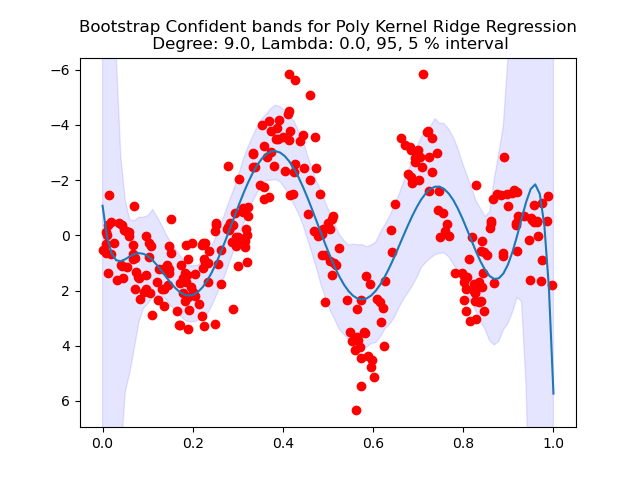
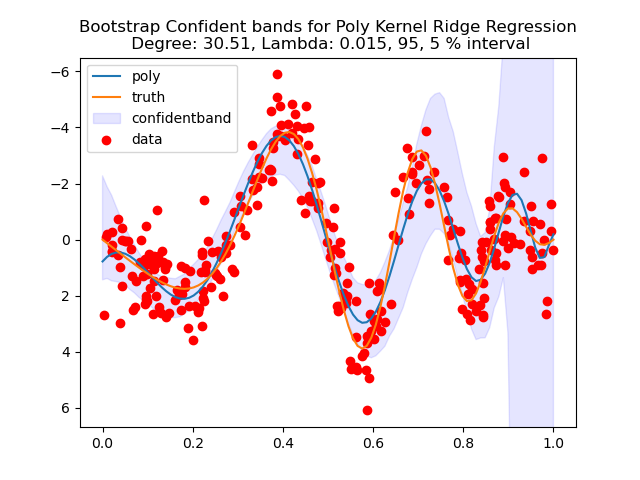
omg finally A3 i think I am done

diff --git a/HW3/hw3code/A3.py b/HW3/hw3code/A3.py
@@ -16,6 +16,7 @@ max = np.max
 linspace = np.linspace
 logspace = np.logspace
 percentile = np.percentile
+var = np.var
 from kernel_ridge_regression import KernelRidge
 from sklearn.metrics.pairwise import rbf_kernel, polynomial_kernel
 from sklearn.model_selection import KFold
@@ -54,12 +55,12 @@ def CrossValErrorEstimate(X, y, regualarizer, kernelfunc, split=None,param_norm=
     AlphaNorm = []
     if split is None:
         split = X.shape[0]
-    kf = KFold(n_splits=split, shuffle=False)
+    kf = KFold(n_splits=split, shuffle=False) # Make it deterministic given the same training sample.
 
     for TrainIdx, TestIdx in kf.split(X):
         Model = KernelRidge(regularizer_lambda=regualarizer, kernelfunc=kernelfunc)
         Model.fit(X[TrainIdx], y[TrainIdx])
-        yhat = Model.predict(X[TestIdx])
+        yhat = Model.predict(X[TestIdx]).reshape(-1)
         Error = (sum(yhat - y[TestIdx])**2)/len(TestIdx)
         Errors.append(Error)
         AlphaNorm.append(norm(Model.w, np.inf))
@@ -71,14 +72,14 @@ def CrossValErrorEstimate(X, y, regualarizer, kernelfunc, split=None,param_norm=
 def GenerateXY(n):
     f = lambda x: 4 * sin(pi * x) * cos(6 * pi * x ** 2)
     x = rand(n)
+    x.sort()
     y = f(x) + randn(n)
     return x[:, np.newaxis], y
 
 
 def main(n=30, KfoldSplit=30):
-
     X, y = GenerateXY(n)   #  THIS IS SHARED! FOR ALL
-
+    f = lambda x: 4 * sin(pi * x) * cos(6 * pi * x ** 2)
     def PolyKernelHypertune():
         def GetError(deg, l):
             Kernefun = lambda x, y: MyPolyKernel(x, y, deg)
@@ -88,15 +89,40 @@ def main(n=30, KfoldSplit=30):
                                           kernelfunc=Kernefun,
                                           split=KfoldSplit)
             return Error
-        Result = shgo(lambda x: GetError(x[0], x[1]),
-             bounds=[(1, 10), (0, 2*n)],
-             n=300, sampling_method="sobol")
-        print(f"SHGO Optimization Results: {Result}")
-        return Result.x
+        BestError = float("inf")
+        Best = None
+        for Deg in np.linspace(7, 31):
+            Result = shgo(lambda x: GetError(Deg, x),
+                bounds=[(0, 0.05)],
+                n=100,
+                sampling_method="simplicial",
+                options={"f_tol": 1e-8}
+                          )
+            if Result.fun < BestError:
+                print(f"Poly Kernel Best error update for deg: {Deg}, Lambda: {Result.x}, Error: {Result.fun}")
+                BestError = Result.fun
+                Best = (Deg, Result.x[0])
+            else:
+                print(f"failed at: deg: {Deg}, Lambda: {Result.x[0]}, Error: {Result.fun}")
+
+        # Result = shgo(lambda x: GetError(x, 0),
+        #      bounds=[(1, 100)],
+        #      n=200, sampling_method="simplicial",
+        #               options={"f_tol": 1e-8, "disp": True})
+        # print(f"SHGO Optimization Results: {Result}")
+        return Best
 
     def GaussianKernelHypertune():
         # Grid search, Fix the training sample
         # X, y = GenerateXY()
+        Xs = X.reshape(-1)
+        Distance = []
+        for II in range(Xs.size):
+            for JJ in range(II + 1, Xs.size):
+                Distance.append(1/(norm(Xs[II] - Xs[JJ])**2))
+        GammaLower, GammaHigher = \
+            percentile(Distance, 25), percentile(Distance, 75)
+        print(f"Hypertune Gamma kernel search range: {GammaLower, GammaHigher}")
         def GetError(gamma, l):
             l, gamma = abs(l), abs(gamma)
             Kernelfun = lambda x, y: RBFKernel(x,y, gamma=gamma)
@@ -109,15 +135,16 @@ def main(n=30, KfoldSplit=30):
             return Error
         # GRID SEARCH INITIAL GUESS
         Result = shgo(lambda x: GetError(x[0], x[1]),
-                      bounds=[(0, 1000), (0, 10*n)],
-                      n=300, sampling_method='sobol')
+                      bounds=[(GammaLower, GammaHigher), (0, 1)],
+                      n=100, sampling_method='sobol',
+                      options={"f_tol": 1e-4, "disp": True})
         print("Optimization results: ")
         print(Result)
         print(f"Guassian Bestparams: {Result.x}")
         return Result.x
     # ============ Hyper Param! ================================================
-    # GaussianBest = [20, 0.058]
-    # PolyBest = [19, 0.05] # PolyKernelHypertune()
+    GaussianBest = [20, 0.058]
+    PolyBest = [19, 0.05]
 
     GaussianBest = GaussianKernelHypertune()
     PolyBest = PolyKernelHypertune()
@@ -131,14 +158,17 @@ def main(n=30, KfoldSplit=30):
                             kernelfunc=
                             lambda X, Y: MyPolyKernel(X, Y, PolyBest[0]))
         Model.fit(X, y)
+        plt.ylim([max(y)*1.1, min(y)*1.1])
         plt.plot(x, Model.predict(x[:, np.newaxis]).reshape(-1))
+        plt.plot(x, f(x))
         plt.scatter(X.reshape(-1), y, c="red")
         plt.title(f"poly kernel ridge regression\n "
                   f"degree: {PolyBest[0]}, lambda: {PolyBest[1]}")
         plt.xlabel("x")
         plt.ylabel("y")
-        plt.show()
+        plt.legend(["Poly", "Truth", "Data Points"])
         plt.savefig("A3b-poly.png")
+        plt.show()
         return Model
 
     BestPolyModel = DrawPolyModel()
@@ -150,15 +180,19 @@ def main(n=30, KfoldSplit=30):
                             lambda X, Y: RBFKernel(X, Y, GaussianBest[0])
                             )
         Model.fit(X, y)
+        plt.ylim([min(y)*1.1, max(y)*1.1])
         plt.plot(x, Model.predict(x[:, np.newaxis]).reshape(-1))
+        plt.plot(x, f(x))
         plt.scatter(X.reshape(-1), y, c="red")
         plt.title(f"guassian kernel ridge regression\n "
                   f"gamma: {GaussianBest[0]}, lambda: {GaussianBest[1]}")
         plt.xlabel("x")
         plt.ylabel("y")
-        plt.show()
+        plt.legend(["Gaussian", "Truth", "Data Points"])
         plt.savefig("A3b-gauss.png")
+        plt.show()
         return Model
+
     BestGaussianModel = DrawGuassianModel()
 
     # --------------------------------------------------------------------------
@@ -181,21 +215,33 @@ def main(n=30, KfoldSplit=30):
             BagOfModels.append(Model)
         ModelPredictions = np.array(
             [Model.predict(x[:, np.newaxis]).reshape(-1) for Model in BagOfModels])
+
         for II in range(ModelPredictions.shape[1]):
             UpperPercentile.append(percentile(ModelPredictions[:, II], 95))
             LowerPercentile.append(percentile(ModelPredictions[:, II], 5))
 
         return UpperPercentile, LowerPercentile
 
-
     def BoopStrapModelDifference(GaussModel, PolyModel):
         m = 1000
+        X, y = GenerateXY(m)
+        AllMeanDiff = []
+        print("solving A3(e)")
         for _ in range(300):
-            Indicies = randint(0, m, m)
+            Idx = randint(0, m, m)
+            Idx.sort()
+            Idx = np.unique(Idx)
+            Xtild, ytild = X[Idx], y[Idx]
+            yhat1 = GaussModel.predict(Xtild).reshape(-1)
+            yhat2 = PolyModel.predict(Xtild).reshape(-1)
+            Var1 = var(yhat1 - ytild)
+            Var2 = var(yhat2 - ytild)
+            AllMeanDiff.append(Var2 - Var1)
+            print(f"Bootstrap sample: {_}, The difference of MSE is: {AllMeanDiff[-1]}")
+        UpperPercentile, LowerPercentile =\
+            percentile(AllMeanDiff, 95), percentile(AllMeanDiff, 5)
+        return LowerPercentile, UpperPercentile
 
-            pass
-
-        pass
 
     Xgrid = linspace(0, 1, 100)
     UpperPercentile, LowerPercentile = BoopStraping(
@@ -208,9 +254,11 @@ def main(n=30, KfoldSplit=30):
     # plt.plot(Xgrid, UpperPercentile)
     # plt.plot(Xgrid, LowerPercentile)
     plt.ylim([max(y) * 1.1, min(y) * 1.1])
-    plt.fill_between(Xgrid, UpperPercentile, LowerPercentile, color='b', alpha=.1)
     plt.plot(Xgrid, BestPolyModel.predict(Xgrid[:, np.newaxis]))
+    plt.plot(Xgrid, f(Xgrid))
+    plt.fill_between(Xgrid, UpperPercentile, LowerPercentile, color='b', alpha=.1)
     plt.scatter(X.reshape(-1), y, c="red")
+    plt.legend(["poly", "truth", "confidentband", "data"])
     plt.savefig("Poly-boopstraped.png")
     plt.show()
     ## Plot the Gaussian Boopstrap
@@ -223,20 +271,31 @@ def main(n=30, KfoldSplit=30):
     # plt.plot(Xgrid, UpperPercentile)
     # plt.plot(Xgrid, LowerPercentile)
     plt.ylim([max(y) * 1.1, min(y) * 1.1])
-    plt.fill_between(Xgrid, UpperPercentile, LowerPercentile, color='b', alpha=.1)
     plt.plot(Xgrid, BestGaussianModel.predict(Xgrid[:, np.newaxis]))
+    plt.plot(Xgrid, f(Xgrid))
+    plt.fill_between(Xgrid, UpperPercentile, LowerPercentile, color='b', alpha=.1)
     plt.scatter(X.reshape(-1), y, c="red")
+    plt.legend(["guassian", "truth", "confidentband", "data"])
     plt.savefig("gaussian-boopstraped.png")
     plt.show()
 
     # A3 Part (e). Additional Boopstrap to compare the models.
     if n == 300 and KfoldSplit == 10:
-        print("a3 (3) not yet implemented yet. ")
-        pass
+        print("For A3 (e) we are going to use the idea of "
+              "boopstrap to find the confidence interval of the"
+              " best MSE model minus the Poly Model ")
 
-
+        LowerPercentile, UpperPercentile = \
+            BoopStrapModelDifference(BestGaussianModel, BestPolyModel)
+        print(f"The Upper and lower bound of the confidence interval is:"
+              f" {LowerPercentile, UpperPercentile}")
+        with open("goodplots/A3e.txt", "a") as file:
+            file.write(f"Upper, Lower bound: {LowerPercentile, UpperPercentile}")
 
 
 
 if __name__ == "__main__":
-    main(300, 10)
+    import os
+    print(f"cwd: {os.getcwd()}")
+    main(n=300, KfoldSplit=10)
+    #main()

diff --git a/HW3/hw3code/temp.py b/HW3/hw3code/temp.py
@@ -90,7 +90,7 @@ def main(n=30, KfoldSplit=30):
              bounds=[(1, 30), (0, 2*n)],
              n=300, sampling_method="sobol")
         print(f"SHGO Optimization Results: {Result}")
-        return Result.x
+        return (Result.x[0], 0)
 
     def GaussianKernelHypertune():
         # Grid search, Fix the training sample

diff --git a/HW3/hw3code/neural_net.py b/HW3/hw3code/neural_net.py
@@ -1,0 +1,4 @@
+#
+#
+#
+#
